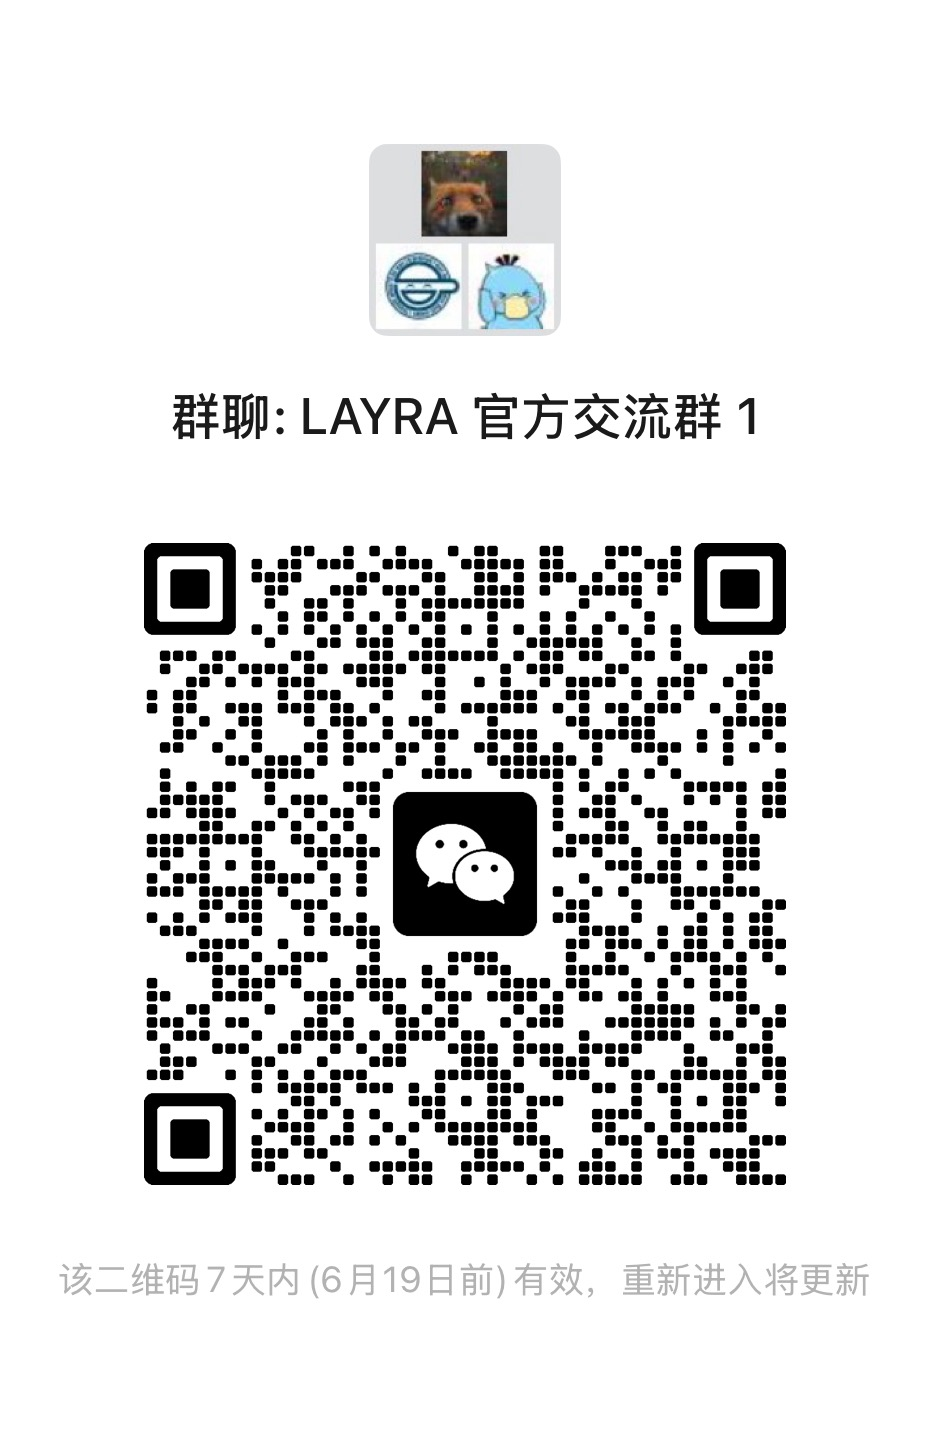
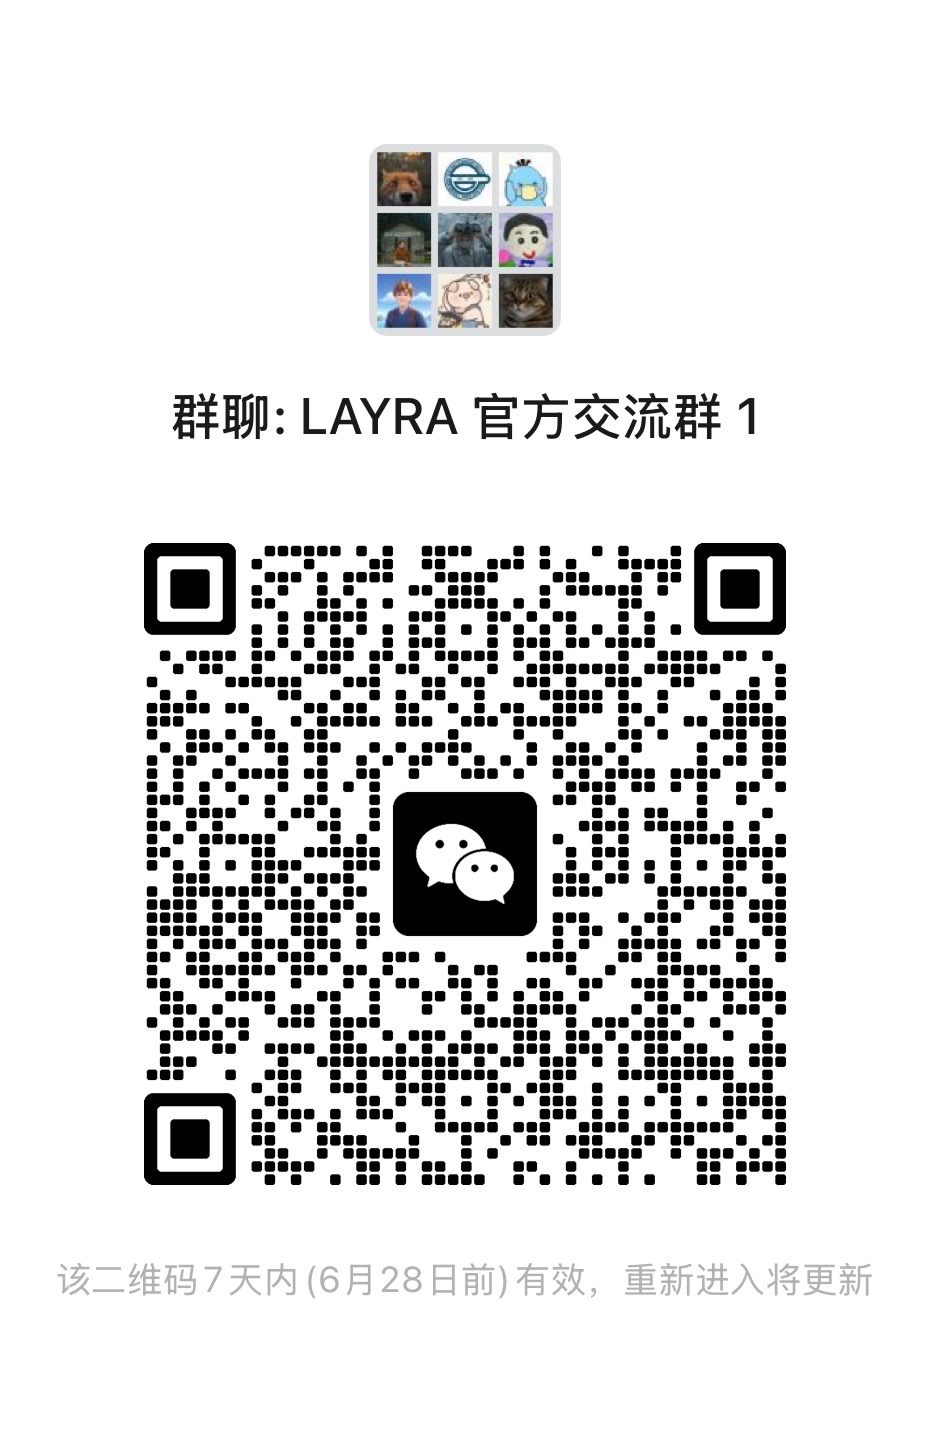
Update docs and improve default prompt
- Update WeChat group QR code in README
- Optimize default prompt for LLM nodes
- Add tutorial button linking to GitHub Pages

diff --git a/frontend/src/components/NavbarComponents/UserMenuExpand.tsx b/frontend/src/components/NavbarComponents/UserMenuExpand.tsx
@@ -26,15 +26,6 @@ const UserMenuExpand = () => {
           clipRule="evenodd"
         />
       </svg>
-
-      {/* <Image
-        src={"/noAvatar.png"}
-        alt=""
-        width={24}
-        height={24}
-        className="cursor-pointer w-6 h-6 object-cover rounded-xs"
-        onClick={() => setIsUserInfoOpen((prev) => !prev)}
-      /> */}
       <div
         className="group flex flex-col gap-[4.5px] cursor-pointer transform transition-transform duration-300  hover:scale-110"
         onClick={() => setIsMenuOpen((prev) => !prev)}
@@ -56,19 +47,89 @@ const UserMenuExpand = () => {
         />
       </div>
       {isMenuOpen && (
-        <div className="z-20 bg-white/100 shadow-2xl absolute left-0 top-10 w-full h-[calc(20vh-98px)] flex flex-col items-center justify-center gap-[10%] font-medium text-sm rounded-3xl">
+        <div className="z-20 p-4 bg-white/100 shadow-2xl absolute right-0 top-10 flex flex-col items-center justify-center gap-2 rounded-3xl">
+          <a
+            href="https://liweiphys.github.io/layra/" // 配置页面的路由路径
+            className="px-3 text-indigo-500 hover:text-indigo-700 flex items-center cursor-pointer"
+            target="_blank" // 新窗口打开
+            rel="noopener noreferrer"
+          >
+            <svg
+              xmlns="http://www.w3.org/2000/svg"
+              fill="none"
+              viewBox="0 0 24 24"
+              strokeWidth="1.5"
+              stroke="currentColor"
+              className="size-5 mr-1"
+            >
+              <path
+                strokeLinecap="round"
+                strokeLinejoin="round"
+                d="M12 6.042A8.967 8.967 0 0 0 6 3.75c-1.052 0-2.062.18-3 .512v14.25A8.987 8.987 0 0 1 6 18c2.305 0 4.408.867 6 2.292m0-14.25a8.966 8.966 0 0 1 6-2.292c1.052 0 2.062.18 3 .512v14.25A8.987 8.987 0 0 0 18 18a8.967 8.967 0 0 0-6 2.292m0-14.25v14.25"
+              />
+            </svg>
+            Tutorial
+          </a>
+
           <div
-            className="cursor-pointer text-red-400 font-semibold"
+            className="cursor-pointer text-red-400 hover:text-red-600 flex items-center "
             onClick={logoutUser}
           >
+            <svg
+              xmlns="http://www.w3.org/2000/svg"
+              fill="none"
+              viewBox="0 0 24 24"
+              strokeWidth="1.5"
+              stroke="currentColor"
+              className="size-5 mr-1"
+            >
+              <path
+                strokeLinecap="round"
+                strokeLinejoin="round"
+                d="M15.75 9V5.25A2.25 2.25 0 0 0 13.5 3h-6a2.25 2.25 0 0 0-2.25 2.25v13.5A2.25 2.25 0 0 0 7.5 21h6a2.25 2.25 0 0 0 2.25-2.25V15m3 0 3-3m0 0-3-3m3 3H9"
+              />
+            </svg>
             Log out
           </div>
         </div>
       )}
       {isUserInfoOpen && (
-        <div className="p-6 z-20 bg-white/100 shadow-2xl absolute right-0 top-10 flex flex-col items-start justify-center gap-4 font-medium text-sm rounded-3xl">
-          <div className="whitespace-nowrap">Username: {user?.name}</div>
-          <div className="whitespace-nowrap">Email: {user?.email}</div>
+        <div className="z-20 p-4 bg-white/100 shadow-2xl absolute right-0 top-10 flex flex-col items-start justify-center gap-2 rounded-3xl">
+          <div className="whitespace-nowrap px-3 flex items-center">
+            <svg
+              xmlns="http://www.w3.org/2000/svg"
+              fill="none"
+              viewBox="0 0 24 24"
+              strokeWidth="1.5"
+              stroke="currentColor"
+              className="size-5 mr-1"
+            >
+              <path
+                strokeLinecap="round"
+                strokeLinejoin="round"
+                d="M17.982 18.725A7.488 7.488 0 0 0 12 15.75a7.488 7.488 0 0 0-5.982 2.975m11.963 0a9 9 0 1 0-11.963 0m11.963 0A8.966 8.966 0 0 1 12 21a8.966 8.966 0 0 1-5.982-2.275M15 9.75a3 3 0 1 1-6 0 3 3 0 0 1 6 0Z"
+              />
+            </svg>
+
+            {user?.name}
+          </div>
+          <div className="whitespace-nowrap px-3 flex items-center">
+            <svg
+              xmlns="http://www.w3.org/2000/svg"
+              fill="none"
+              viewBox="0 0 24 24"
+              strokeWidth="1.5"
+              stroke="currentColor"
+              className="size-5 mr-1"
+            >
+              <path
+                strokeLinecap="round"
+                strokeLinejoin="round"
+                d="M21.75 6.75v10.5a2.25 2.25 0 0 1-2.25 2.25h-15a2.25 2.25 0 0 1-2.25-2.25V6.75m19.5 0A2.25 2.25 0 0 0 19.5 4.5h-15a2.25 2.25 0 0 0-2.25 2.25m19.5 0v.243a2.25 2.25 0 0 1-1.07 1.916l-7.5 4.615a2.25 2.25 0 0 1-2.36 0L3.32 8.91a2.25 2.25 0 0 1-1.07-1.916V6.75"
+              />
+            </svg>
+            {user?.email}
+          </div>
         </div>
       )}
     </div>

diff --git a/frontend/src/components/Workflow/FlowEditor.tsx b/frontend/src/components/Workflow/FlowEditor.tsx
@@ -1117,7 +1117,7 @@ const FlowEditor: React.FC<FlowEditorProps> = ({
         label: nodeTypesInfo[type].label,
         nodeType: type,
         output: "This area displays the Node output during workflow execution.",
-        prompt: '输出以：{"output":AIOutput}的格式输出，不要包含任何其他内容.',
+        prompt: 'Your are a helpful assistant.',
         vlmInput: "",
         chatflowOutputVariable: "",
         isChatflowInput: false,

diff --git a/backend/app/workflow/workflow_engine.py b/backend/app/workflow/workflow_engine.py
@@ -526,6 +526,7 @@ class WorkflowEngine:
                     vlm_input = node.data["vlmInput"]
                     temp_db_id = ""
                 vlm_input = replace_template(vlm_input, self.global_variables)
+                system_prompt = replace_template(node.data["prompt"], self.global_variables)
 
                 ##### mcp section #####
                 mcp_tools_for_call = {}
@@ -664,7 +665,7 @@ Here is the JSON function list: {json.dumps(mcp_tools_for_call)}"""
                     user_message_content=user_message,
                     model_config=node.data["modelConfig"],
                     message_id=message_id,
-                    system_prompt=node.data["prompt"],
+                    system_prompt=system_prompt,
                     save_to_db=True if node.data["isChatflowOutput"] else False,
                     user_image_urls=self.user_image_urls,
                     supply_info=self.supply_info,

diff --git a/README.md b/README.md
@@ -9,8 +9,8 @@
       <img src="https://img.shields.io/github/license/liweiphys/layra" alt="License: Apache 2.0" />
     </a>
     <a href="https://github.com/liweiphys/layra/issues">
-    <img src="https://img.shields.io/github/issues/liweiphys/layra" alt="Issues" />
-  </a>
+      <img src="https://img.shields.io/github/issues-closed/liweiphys/layra" alt="Closed Issues" />
+    </a>
     <a href="https://liweiphys.github.io/layra">
       <img src="https://img.shields.io/badge/Tutorial-GitHub_Pages-blue" alt="Tutorial" />
     </a>
@@ -336,7 +336,7 @@ The workflow execution follows an **event-driven**, **stateful debugging** patte
 
 - Embedding: `colqwen2.5-v0.2`
 - LLM Serving: `Qwen2.5-VL series (or any OpenAI-compatible model)`
-[LOCAL DEPLOYMENT NOTE](https://liweiphys.github.io/layra/docs/RAG-Chat)
+  [LOCAL DEPLOYMENT NOTE](https://liweiphys.github.io/layra/docs/RAG-Chat)
 
 ---
 
@@ -378,14 +378,17 @@ docker compose logs -f <container_name>
 
 > **Note**: If you encounter issues with `docker compose`, try using `docker-compose` (with the dash) instead. Also, ensure that you're using Docker Compose v2, as older versions may not support all features. You can check your version with `docker compose version` or `docker-compose version`.
 
-#### 🔧 Troubleshooting Tips  
-If services fail to start:  
+#### 🔧 Troubleshooting Tips
+
+If services fail to start:
+
 ```bash
 # Check container logs:
 docker compose logs <container name>
 ```
 
 Common fixes:
+
 ```bash
 nvidia-smi  # Verify GPU detection
 docker compose down && docker compose up --build  # preserve data to rebuild
@@ -396,13 +399,13 @@ docker compose down -v && docker compose up --build  # ⚠ Caution: delete al
 
 Choose the operation you need:
 
-| **Scenario**                               | **Command**                                     | **Effect**                               |
-| ------------------------------------------ | ----------------------------------------------- | ---------------------------------------- |
-| **Stop services**<br>(preserve data)       | `docker compose stop`                           | Stops containers but keeps them intact   |
-| **Restart after stop**                     | `docker compose start`                          | Restarts stopped containers              |
-| **Rebuild after code changes**             | `docker compose up -d --build`                  | Rebuilds images and recreates containers |
-| **Recreate containers**<br>(preserve data) | `docker compose down`<br>`docker compose up -d` | Destroys then recreates containers       |
-| **Full cleanup**<br>(delete all data)   | `docker compose down -v`                        | ⚠ Destroys containers and deletes volumes  |
+| **Scenario**                               | **Command**                                     | **Effect**                                 |
+| ------------------------------------------ | ----------------------------------------------- | ------------------------------------------ |
+| **Stop services**<br>(preserve data)       | `docker compose stop`                           | Stops containers but keeps them intact     |
+| **Restart after stop**                     | `docker compose start`                          | Restarts stopped containers                |
+| **Rebuild after code changes**             | `docker compose up -d --build`                  | Rebuilds images and recreates containers   |
+| **Recreate containers**<br>(preserve data) | `docker compose down`<br>`docker compose up -d` | Destroys then recreates containers         |
+| **Full cleanup**<br>(delete all data)      | `docker compose down -v`                        | ⚠ Destroys containers and deletes volumes |
 
 #### ⚠ Important Notes
 

diff --git a/README_zh.md b/README_zh.md
@@ -9,9 +9,9 @@
       <img src="https://img.shields.io/github/license/liweiphys/layra" alt="License: Apache 2.0" />
     </a>
     <a href="https://github.com/liweiphys/layra/issues">
-    <img src="https://img.shields.io/github/issues/liweiphys/layra" alt="Issues" />
-  </a>
-      <a href="https://liweiphys.github.io/layra">
+      <img src="https://img.shields.io/github/issues-closed/liweiphys/layra" alt="Closed Issues" />
+    </a>
+    <a href="https://liweiphys.github.io/layra">
       <img src="https://img.shields.io/badge/Tutorial-GitHub_Pages-blue" alt="Tutorial" />
     </a>
   </p>
@@ -305,8 +305,7 @@ PDF 解析为图像 →ColQwen2.5 视觉嵌入 → 元数据/文件存储：
 
 - 嵌入模型：`colqwen2.5-v0.2`
 - LLM 服务：`Qwen2.5-VL系列（或任意OpenAI兼容模型）`
-[本地部署注意事项](https://liweiphys.github.io/layra/docs/RAG-Chat)
-
+  [本地部署注意事项](https://liweiphys.github.io/layra/docs/RAG-Chat)
 
 ---
 
@@ -336,14 +335,17 @@ docker compose logs -f <容器名>  # 实时日志
 
 > **注意**：如果 `docker compose` 遇到问题，尝试使用 `docker-compose`。同时，确保你使用的是 Docker Compose v2，旧版本不被 LAYRA 支持。你可以通过 `docker compose version` 或 `docker-compose version` 来检查当前版本。
 
-#### 🔧 故障排除指南  
-若服务启动失败：  
+#### 🔧 故障排除指南
+
+若服务启动失败：
+
 ```bash
 # 查看容器日志：
 docker compose logs <容器名称>
 ```
 
 常用修复方案：
+
 ```bash
 nvidia-smi  # 验证GPU识别状态
 docker compose down && docker compose up --build  # 保留数据重建
@@ -354,13 +356,13 @@ docker compose down -v && docker compose up --build  # ⚠ 删除所有数据
 
 **按需选择操作：**
 
-| **场景** | **命令** | **效果** |
-|--------------|-------------|------------|
-| **停止服务**<br>(保留数据) | `docker compose stop` | 停止容器但保持容器完整 |
-| **停止后重启** | `docker compose start` | 重启已停止的容器 |
-| **代码更新后重建** | `docker compose up -d --build` | 重新构建镜像并创建容器 |
-| **重建容器**<br>(保留数据) | `docker compose down`<br>`docker compose up -d` | 销毁后重新创建容器 |
-| **彻底清理**<br>(删除所有数据) | `docker compose down -v` | ⚠ 销毁容器并删除数据卷 |
+| **场景**                       | **命令**                                        | **效果**                |
+| ------------------------------ | ----------------------------------------------- | ----------------------- |
+| **停止服务**<br>(保留数据)     | `docker compose stop`                           | 停止容器但保持容器完整  |
+| **停止后重启**                 | `docker compose start`                          | 重启已停止的容器        |
+| **代码更新后重建**             | `docker compose up -d --build`                  | 重新构建镜像并创建容器  |
+| **重建容器**<br>(保留数据)     | `docker compose down`<br>`docker compose up -d` | 销毁后重新创建容器      |
+| **彻底清理**<br>(删除所有数据) | `docker compose down -v`                        | ⚠ 销毁容器并删除数据卷 |
 
 #### ⚠ 重要提示
 
@@ -371,6 +373,7 @@ docker compose down -v && docker compose up --build  # ⚠ 删除所有数据
    ```
 
 2. **修改 `.env` 或代码后**，必须重新构建：
+
    ```bash
    docker compose up -d --build
    ```
